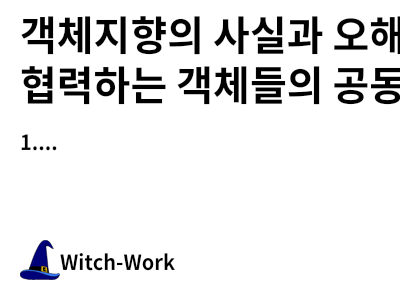
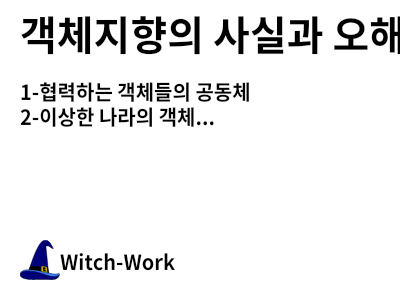
객체지향의 사실과 오해 1,2단원

Changed region(s): [[0.03, 0.21, 0.81, 0.42], [0.84, 0.21, 1.0, 0.36], [0.06, 0.45, 0.15, 0.51]]

diff --git a/posts/misc/oop-book-1/index.md b/posts/misc/oop-book-1/index.md
@@ -1,8 +1,110 @@
 ---
-title: 객체지향의 사실과 오해, 협력하는 객체들의 공동체
+title: 객체지향의 사실과 오해
 date: "2023-06-18T00:00:00Z"
 description: "객체지향 패러다임은 프로그램을 객체들의 공동체로 해석한다."
 tags: ["oop"]
 ---
 
-# 1. 
+# 1. 시작
+
+객체 지향 프로그램을 만든다는 것은 목표를 만족하기 위해서 협력하는 관계를 가지고 그 관계 속에서 각자의 역할과 책임을 다하는 객체들로 구성된 하나의 완전연결된 세계를 구성하는 것이다.
+
+이러한 세계 속의 객체란 협력하는 관계 하에서 역할, 그리고 역할에 따른 책임을 가지고 있는 무언가이다. 그리고 그 역할을 자율적으로 수행한다. 객체는 그 역할과 책임을 수행하기 위해서 행동을 가지고 그 행동을 서술하기 위한 상태를 가진다.
+
+객체를 설계하는 개발자는 이런 것을 고려하여 먼저 목표를 정하고, 목표를 달성하기 위한 협력 관계를 정의한다. 그리고 협력 관계 하에서 객체들이 수행해야 하는 책임을 분배하고 그에 맞는 행동을 설계한다. 상태는 행동에 필요한 데이터들로 구성한다.
+
+# 2. 협력하는 객체들의 공동체
+
+> 난 우리만 무대 위에 있고, 남들은 다 구경꾼이라고 생각했지. 그래서 외로웠던 거야. 그건 잘못이야. 그게 아니야. 우리도 구경꾼이지. 난 이제 알 것 같아. 사람들이란 저마다 있는 힘을 다해 살아가는 거야. 잘난 놈은 잘난 맛에 살고, 못난 놈도 제 딴엔 애쓰고, 자기가 가진 걸 남김없이 다 털어버리고 살고 있는 걸 이제야 알았어. 세상이나 무대나 뭐가 달라. 구경꾼이나 배우나. 분 바르고 재주 피우고 살긴 똑같지.
+>
+> 한수산, "부초"
+
+## 2.1. 역할과 책임
+
+역할이란 협력 관계 속에서 객체에게 주어진 특정한 목표이다. 객체는 그 역할에 따르는 책임을 갖는다. 프로그램 속에서 특정 객체가 제목을 보여준다면, 그 객체는 `제목 역할`을 가지고 `제목을 보여주는 책임`을 수행하고 있다고 말할 수 있다. 
+
+단 하나의 역할이 꼭 하나의 책임을 의미하는 것은 아니고, 역할은 관련성 높은 책임의 집합이다. 제목 역할을 하는 객체가 제목을 보여주는 것뿐만 아니라 적절한 위치에 배치하는 책임까지 가지고 있다고 해서 이상할 것은 없다. 물론 Presentational and Container 패턴 같은 걸 고려한다면 두 역할을 분리하는 것이 좋겠지만 이론적으로 그렇다는 이야기다.
+
+이때 객체는 내부적인 자율성을 가지고 해당 역할을 수행한다. 즉, 객체는 자신의 역할을 수행하기 위해 필요한 방법을 자율적으로 선택할 수 있다. 제목을 보여주는 `Title` 컴포넌트가 있다면, 해당 객체가 제목을 보여주기만 한다면 그것이 `div` 태그를 쓰든, `h1`태그를 쓰든 아니면 어떤 라이브러리를 가져와 사용하여 제목을 보여주든 다른 객체에서는 관여할 수 없다는 것이다. 
+
+실질적으로는 다른 객체에서 메서드 등을 통해 관여할 수도 있겠지만 이론적으로는 제목을 보여주는 역할이 중요하지 그 수행 방법은 객체에서 자율적으로 선택하도록 하는 게 맞다.
+
+그리고 역할이란 특정 객체에 묶인 개념이 아니므로 여러 객체가 동일한 역할을 할 수 있고, 어떤 역할을 수행하는 객체를 같은 역할을 하는 동일한 객체로 치환할 수도 있다. 또한 한 객체가 여러 역할을 같이 수행할 수도 있다. 
+
+물론 이 역할들의 수행 방식은 객체가 자율적으로 선택하므로 A객체를 역할이 같은 B객체로 치환했다고 해도 A, B객체가 그 역할을 내부적으로 수행하는 방식은 다를 수 있다. 여기서 객체지향의 중요한 특징 중 하나인 다형성이 나온다.
+
+## 2.2. 협력
+
+객체들은 협력 관계를 이루어 목표를 달성하며, 그러기 위해 각 객체는 충분히 협력적으로 다른 객체와 소통해야 한다.
+
+그러면 소통은 어떻게 이루어지는가? `요청`과 `응답` 메시지를 통해 이루어진다. 한 객체가 다른 객체에게 메시지를 보내면 메시지를 받은 객체는 대응하는 메서드를 실행하고 그 결과를 응답으로 보낸다.
+
+원칙적으로 외부에서는 메시지를 통해서만 객체와 소통할 수 있다. 무언가를 해달라는 요청을 메시지로 보내고, 응답을 메시지로 받을 뿐이다. 메시지를 받은 객체가 실제로 그 메시지를 어떻게 처리하는지(메서드의 내부 구현)는 알 수 없다. 이것이 객체의 자율성이며 중요한 특성 중 하나인 캡슐화이다.
+
+## 2.3. 객체
+
+객체는 충분히 협력적이어야 한다. 즉 다른 객체의 요청에 응답하고 또 필요에 의해 다른 객체에게 요청하는 협력이 가능해야 한다는 것이다.
+
+또한 자율적이어야 한다. 요청에 응답하고 자신의 역할을 다하는 방법을 스스로 결정할 수 있어야 한다. 
+
+이러한 목표를 달성하기 위해서 객체는 상태와 행위(behavior)를 가진다. 과거에는 데이터와 프로세스를 엄격히 구분하였지만 객체 지향에서는 이 2가지를 객체 속에 묶어 넣어 놓는다.
+
+이러한 객체는 꼭 클래스로 구현될 필요는 없다. 최근 여러 글을 썼던 프로토타입으로도 충분히 객체를 구현할 수 있다. 또한 mixin과 같은 다른 방식들도 있다. 클래스라는 구현 방식에 얽매이지 말고 협력 관계 속에서 역할과 책임으로 정의되는 객체 그 자체에 집중하자.
+
+# 2. 이상한 나라의 객체
+
+> 만약 어떤 외부 사람이 차를 타고 미겔 스트리트를 지나간다면 그는 "빈민굴이구먼! 이라고 말할지 모른다. 그도 그럴 만한 것이 그의 눈에는 빈민굴밖에 보이지 않을 것이기 때문이다. 그러나 거기서 살고 있던 우리는 그 거리를 하나의 세계로 여기고 있었다. 이 세계에서는 모든 사람이 각기 특유의 개성을 지니고 있었다. 맨맨은 미치광이였고, 조지는 바보였으며, 빅 풋은 폭한이었다. 해트는 모험가요, 포포가 철학자라면, 모건은 우리 동네 희극배우였다.
+>
+> V.S.나이폴, "미겔 스트리트"
+
+## 2.1. 객체와 인지
+
+사람은 기본적으로 세상을 수많은 객체들의 집합으로 분해하여 인지한다. 이때 객체란 것은 인지할 수 있으며 임의대로 정한 경계를 지닌 어떤 것이다. 우리는 컴퓨터를 하나의 객체로 인지할 수도 있지만 컴퓨터를 조립하고 있다면 그것을 모니터, 그래픽카드, 메인보드 등의 객체들로 이루어진 집합으로 인지할 수도 있다. 
+
+이렇게 경계는 정하기 나름이지만 중요한 것은 사람들이 세상을 경계를 지닌 객체들의 집합으로 인지한다는 것이다. 객체지향은 소프트웨어 또한 이렇게 사람이 세상을 여러 객체로 분류해서 보는 것과 같이 짜일 수 있다는 믿음에서 출발한다.
+
+물론 앞서 본 것처럼 소프트웨어 객체는 각자 자율성을 가지고 있다. 현실의 통장과 달리 통장 객체는 스스로 잔고를 줄일 수 있다. 따라서 객체 지향 패러다임을 통해 현실을 완전히 모방할 수는 없다. 하지만 세상을 각자의 역할을 하는 객체들의 집합으로 보는 패턴을 빌려오는 것이다.
+
+## 2.2. 객체의 구성
+
+객체는 상태와 행동, 식별자로 구성되어 있다.
+
+### 2.2.1. 상태
+
+상태는 특정 시점에 객체가 가지고 있는 정보의 집합이다. 값 혹은 다른 객체에 대한 링크이며 지금까지 취한 행동들의 결과를 기술한다. 가령 통장 객체의 잔고 상태는 지금까지 통장 주인이 취한 모든 입출금이력의 결과일 것이다. 즉 상태를 이용하면 과거 모든 행동 이력을 설명하지 않고도 현재 상태를 통해 행동 결과를 만들어낼 수 있다. 이런 객체를 구성하는 모든 특징을 객체 프로퍼티라 한다.
+
+그런데 객체는 자율적이기 때문에 상태를 외부에 노출하지 않는다. 상태는 객체 내부에 존재하며 객체가 스스로 관리한다. 따라서 외부에서는 객체의 상태를 직접 제어할 수 없다. 외부에서 객체 상태에 관여하기 위한 방법으로 행동이 등장한다. 객체는 스스로의 행동에 의해서만 상태를 변경해야 한다.
+
+### 2.2.2. 행동
+
+행동은 외부의 요청에 따라 객체의 책임을 다하기 위해 객체가 취하는 어떤 동작이다. 현재 상태를 무엇인가로 변경하고 협력하는 다른 객체에 메시지를 보낸다. 
+
+외부 객체가 협력 관계 속에서 어떤 객체와 협력하고 싶다면 요청을 통해 해당 객체의 행동을 이용한다. 그러면서 해당 객체의 내부 상태는 변경된다.
+
+반대로 행동의 결과 또한 상태의 영향을 받기도 하는데 통장 객체의 잔고 상태가 10000원 이하라면 10000원을 인출하려는 행동은 실패할 것이다. 따라서 현재 상태에 어떻게 의존하는지도 행동의 기술에 포함된다.
+
+![object-behavior](./object-behavior.png)
+
+행동을 설계할 때는 객체의 자율성을 보장해야 한다는 것에 주의하자. 객체에 접근할 수 있는 유일한 방법은 객체가 제공하는 행동뿐이며 외부에서는 메시지를 통해서 이 행동을 사용하는 수밖에 없다. 
+
+### 2.2.3. 식별자
+
+식별자는 객체를 구분할 수 있는 프로퍼티이며 이를 이용해 객체를 식별한다. 정수와 같은 값들은 식별자를 가지지 않고 단순히 값을 통해서 비교한다. 식별자의 유무는 값과 객체의 가장 큰 차이다. 값은 상태가 같으면 같다고 판단되지만 객체는 그렇지 않다.
+
+예를 들어 통장 객체가 있다면, 이름이 `김성현`이고 A은행 통장이며 잔고가 10000원 있다고 해서 무조건 같은 객체로 취급할 수 없다. 내 통장 잔고와 같은 잔고를 가진 동명이인의 통장이 있다고 해서 두 통장이 합쳐진다면 난 매우 난감할 것이다. 따라서 통장 객체는 각 통장을 구별할 수 있는 식별자를 가지고 있어야 한다.
+
+## 2.3. 객체 설계
+
+`"행동이 상태를 결정한다"`
+
+앞서 언급했듯 객체 지향은 목표를 위해 여러 객체가 메시지를 통해 협력하는 관계를 구축하는 것이다. 따라서 객체를 설계할 때도 각 객체가 어떤 상태를 가질지를 보는 것이 아니라 각 객체가 협력 관계 속에서 어떤 역할을 수행하는지, 따라서 어떤 행동을 할 수 있어야 하는지를 중심으로 설계해야 한다. 
+
+그리고 나서야 그 행동들을 서술하기 위해 객체가 가져야 할 상태를 결정한다. 이러한 방법론이 바로 책임 주도 설계이다.
+
+또한 알아야 할 것은 객체들의 협력 관계를 기반으로 행동을 잘 설계했다면 그것이 꼭 현실 객체의 모방일 필요는 없다는 사실이다. 그저 현실 객체를 이용해서 소프트웨어 객체를 묘사함으로써(컴포넌트 이름을 `Container`로 지음으로써 무언가를 담는 역할이라고 나타낸다든지)이해를 돕고 더 쉽게 예측할 수 있는 세계를 구성할 수도 있다는 선택지가 있을 뿐이다.
+
+# 3. 타입과 추상화
+
+> 현상은 복잡하다. 법칙은 단순하다. 버릴 게 무엇인지 알아내라.
+>
+> 리처드 파인만
